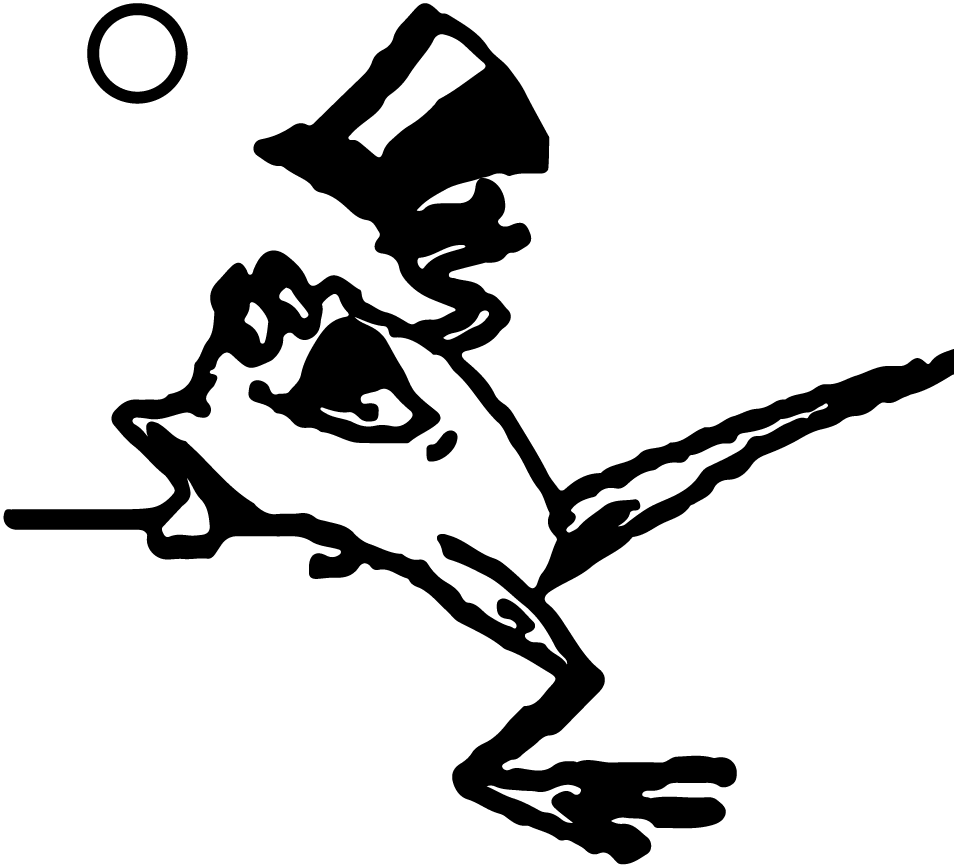
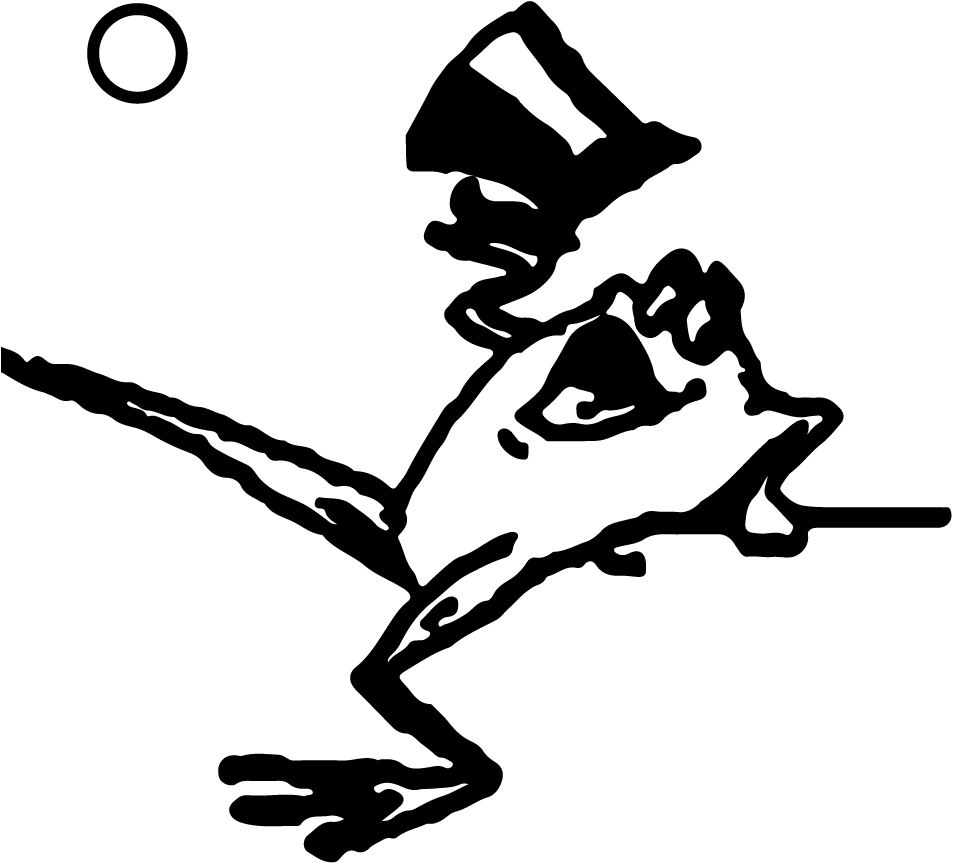
c

Changed region(s): [[0.0, 0.0, 1.0, 1.0]]

diff --git a/assets/style.css b/assets/style.css
@@ -300,7 +300,7 @@ p.caption a {
 .bloque.dos .columna:nth-child(7) .check-categoria img{
     width: 118%;
     height: 32.55vw;
-    transform: scaleX(-1);
+    /*transform: scaleX(-1);*/
     margin-left: -3vw;
 }
 
